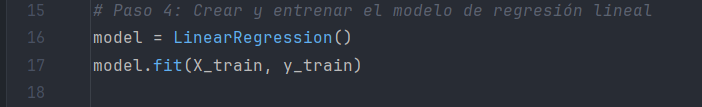
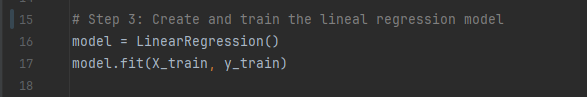
Correcciones Lab#1

Changed region(s): [[0.1227, 0.0309, 0.9506, 0.4948], [0.1227, 0.5258, 0.5213, 0.7113], [0.0, 0.0, 0.0613, 1.0]]

diff --git a/Lab#1 Joseph Cantarero/Lab#1 Regresion Lineal.py b/Lab#1 Joseph Cantarero/Lab#1 Regresion Lineal.py
@@ -4,30 +4,30 @@ from sklearn.linear_model import LinearRegression
 from sklearn.metrics import mean_squared_error, r2_score
 import matplotlib.pyplot as plt
 
-# Paso 2: Generar datos de ejemplo
+# Step 1: Generate example data
 np.random.seed(0)
-tamano_vivienda = 2 * np.random.rand(100, 1)
-precio_vivienda = 3 + 4 * tamano_vivienda + np.random.randn(100, 1)
+house_size = 2 * np.random.rand(100, 1)
+house_price = 3 + 4 * house_size + np.random.randn(100, 1)
 
-# Paso 3: Dividir los datos en conjuntos de entrenamiento y prueba
-X_train, X_test, y_train, y_test = train_test_split(tamano_vivienda, precio_vivienda, test_size=0.2, random_state=42)
+# Step 2: Divide the data in training and testing sets
+X_train, X_test, y_train, y_test = train_test_split(house_size, house_price, test_size=0.2, random_state=42)
 
-# Paso 4: Crear y entrenar el modelo de regresión lineal
+# Step 3: Create and train the lineal regression model
 model = LinearRegression()
 model.fit(X_train, y_train)
 
-# Paso 5: Hacer predicciones
+# Step 4: Predict results with the model
 y_pred = model.predict(X_test)
 
-# Paso 6: Calcular el error cuadrático medio
+# Step 5: Calculate the mean squared error
 mse = mean_squared_error(y_test, y_pred)
 print("Error Cuadrático Medio:", mse)
 
-# Paso 7: Calcular el coeficiente de determinación (R-cuadrado)
+# Step 6: Calculate the r2 score
 r2 = r2_score(y_test, y_pred)
 print("Coeficiente de Determinación (R-cuadrado):", r2)
 
-# Paso 8: Visualizar los resultados
+# Step 7: Visualize the results
 plt.scatter(X_test, y_test, color='blue')
 plt.plot(X_test, y_pred, color='red')
 plt.title('Regresión Lineal Simple')

diff --git a/Lab#1 Joseph Cantarero/Readme.md b/Lab#1 Joseph Cantarero/Readme.md
@@ -1,52 +1,57 @@
 ## Importación de Librerías
 
 ![](resources/librerias.png)
-- **Numpy (np)**: Es una biblioteca fundamental para la computación cientifica en Python. Proporciona soporte para matrices multidimensionales, junto con una amplia variedad de funciones matemáticas.
-- **scikit-learn (sklearn)**: Scikit-learn es una biblioteca de aprendizaje automático (machine learning) para Python que proporciona herramientass simples y eficientes para el análisis predictivo de datos. Incluye una variedad de algoritmos de aprendizaje supervisado y no supervisado.
-- **matplotlib.pyplot (plt)**: Matplotlib es una biblioteca de visualización en Python que se utilizz comúnmente para crear gráficos estáticos, graficos interactivos y visuallizaciones de datos. 
+- **Numpy (np)**: Es una biblioteca fundamental para la computación científica en Python. Proporciona soporte para matrices multidimensionales, junto con una amplia variedad de funciones matemáticas.
+- **scikit-learn (sklearn)**: Scikit-learn es una biblioteca de aprendizaje automático (machine learning) para Python que proporciona herramientas simples y eficientes para el análisis predictivo de datos. Incluye una variedad de algoritmos de aprendizaje supervisado y no supervisado.
+- **matplotlib.pyplot (plt)**: Matplotlib es una biblioteca de visualización en Python que se utiliza comúnmente para crear gráficos estáticos, gráficos interactivos y visualizaciones de datos.
 
-## Generacion de datos de ejemplo
+## Generación de datos de ejemplo
 ![](resources/datos_ejemplo.png)
-- **np.random.seed(0)**: Establece la semilla para el generador de números aleatorios de NumPy. 
+- **np.random.seed(0)**: Establece la semilla para el generador de números aleatorios de NumPy.
 - **tamano_vivienda**: Representa la variable independiente del modelo.
-- **precio_vivienda**: Representa la varaible dependiente del modelo, es decir cambiara en funcion a la variable independiente.
+- **precio_vivienda**: Representa la variable dependiente del modelo, es decir cambiará en función a la variable independiente.
 
 ## Dividir los datos en conjuntos de entrenamiento y prueba
 ![](resources/dividir.png)
 - **train_test_split**: Divide un conjunto de datos en conjuntos de entrenamiento y prueba.
-- **test_size**: Especifica el tamaño que tendrá el conjunto de prueba. Es decir el porcentaje de datos que se utilizaran como conjunto de prueba y el restante como conjunto de entrenamiento.
-- **random_state**: Esto establece la semilla para el generador de números aleatorios que se utiliza internamente en la funcion. Misma semilla representa que se obtendran los mismos datos en caso de replicar.
+- **test_size**: Especifica el tamaño que tendrá el conjunto de prueba. Es decir, el porcentaje de datos que se utilizarán como conjunto de prueba y el restante como conjunto de entrenamiento.
+- **random_state**: Esto establece la semilla para el generador de números aleatorios que se utiliza internamente en la función. La misma semilla representa que se obtendrán los mismos datos en caso de replicar.
 - **X_train**: Variables independientes de entrenamiento.
 - **X_test**: Variables independientes de prueba.
 - **Y_train**: Variables dependientes de entrenamiento.
 - **Y_test**: Variables dependientes de prueba.
 
-## Crear y entrenar el modelo (Regresion Lineal)
+## Crear y entrenar el modelo (Regresión Lineal)
 ![](resources/crear_modelo.png)
 - **model = LinearRegression()**: Esto crea una instancia del modelo de regresión lineal.
-- **model.fit()**: Esta linea de codigo entrena el modelo utilizando los datos de entrenamiento. El método 'fit()' ajusta el modelo a los datos de entrenamiento, es decir, encuentra los coeficientes óptimos para la línea o hiperplano.
+- **model.fit()**: Esta línea de código entrena el modelo utilizando los datos de entrenamiento. El método 'fit()' ajusta el modelo a los datos de entrenamiento, es decir, encuentra los coeficientes óptimos para la línea o hiperplano.
 
 ## Hacer predicciones
 ![](resources/predicciones.png)
-- **model.predict()**: Utiliza el metodo 'predict()' del modelo de regresión lineal ('model') para realizar predicciones sobre los valores independientes de prueba (X_test)
+- **model.predict()**: Utiliza el método 'predict()' del modelo de regresión lineal ('model') para realizar predicciones sobre los valores independientes de prueba (X_test).
 - **y_pred**: Las predicciones resultantes se asignan a la variable 'y_pred'. 
 
 ## Calcular el error cuadrático medio
 ![](resources/error_cuadratico.png)
-- **mean_squared_error()**: Este es un método de la biblioteca scikit-learn (sklearn) que calcula el Error Cuadrático Medio (MSE) entre los valores reales dependendientes del conjunto de prueba y las predicciones del modelo.
-- **mse**: EL valor del MSE se almacena en esta variable.
+- **mean_squared_error()**: Este es un método de la biblioteca scikit-learn (sklearn) que calcula el Error Cuadrático Medio (MSE) entre los valores reales dependientes del conjunto de prueba y las predicciones del modelo.
+- **mse**: El valor del MSE se almacena en esta variable.
 
 ## Calcular el coeficiente de determinación
 ![](resources/coeficiente_determinacion.png)
-- **r2_score**: Este es un método de la biblioteca scikit-learn que calcula el Coeficiente de Determinacion (R-Cuadrado), esta es una medida de qué tan bien las predicciones del modelo se ajustan a los datos reales y varía entre 0 y 1. Entre más cercano a 1 indica un mejor ajuste del modelo a los datos.
-- **r2**: Almacena el valor del Coeficiente de Determinación
+- **r2_score**: Este es un método de la biblioteca scikit-learn que calcula el Coeficiente de Determinación (R-Cuadrado), esta es una medida de qué tan bien las predicciones del modelo se ajustan a los datos reales y varía entre 0 y 1. Entre más cercano a 1 indica un mejor ajuste del modelo a los datos.
+- **r2**: Almacena el valor del Coeficiente de Determinación.
 
 ## Visualizar los resultados
 ![](resources/resultados.png)
-- **plt.scatter**: Este comando traza un diagrana de dispersión de los datos de prueba. Cada punto en el grafico representa una observación del conjunto de prueba, el eje x siendo el tamaño de la vivienda y el eje y el precio de la vivienda.
+- **plt.scatter**: Este comando traza un diagrama de dispersión de los datos de prueba. Cada punto en el gráfico representa una observación del conjunto de prueba, el eje x siendo el tamaño de la vivienda y el eje y el precio de la vivienda.
 - **plt.plot**: Este comando traza la línea de regresión lineal sobre los datos de prueba. 
 - **plt.title()**: Este comando establece el título del gráfico.
 - **plt.xlabel()**: Este comando establece la etiqueta del eje x.
 - **plt.ylabel()**: Este comando establece la etiqueta del eje y.
-- **plt.show()**: Este comando muestra el gráfico completo con todas las caracteristicas configuradas.
+- **plt.show()**: Este comando muestra el gráfico completo con todas las características configuradas.
 
+## Gráfica
+![](resources/grafica.png)
+
+- **Línea Roja**: Representa las predicciones realizadas con el modelo y los datos de entrenamiento, en términos simples cuando el tamaño de la vivienda aumenta también lo hará el precio.
+- **Puntos Azules**: Representa los datos reales tomados de los datos de prueba, entre más alejados estén de la línea roja mayor diferencia habrá entre los datos reales y las predicciones.
